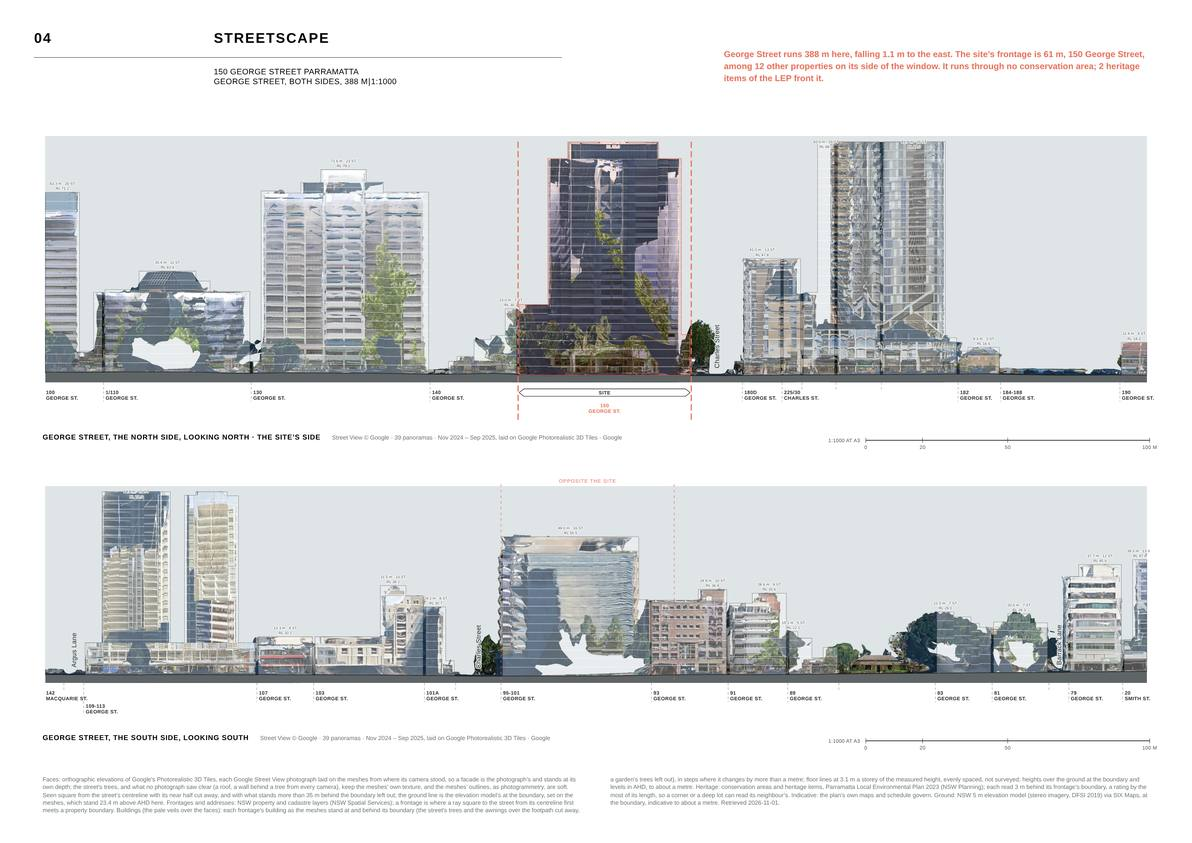
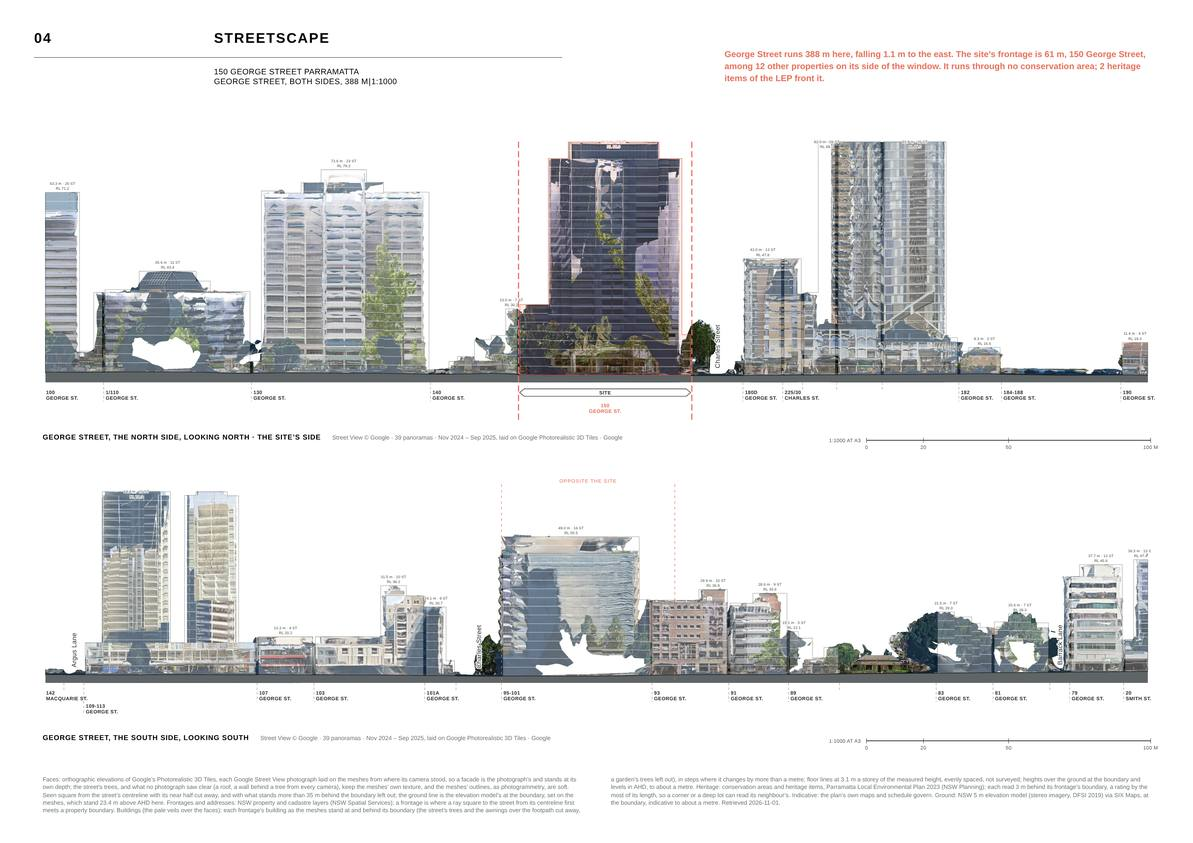
Streetscape on a white sky (#120)
The streetscape's sky is white, the page's own paper: the 3D-tiles pictures are drawn on it and the bands take it, on the site report's page and the standalone sheet alike. The web's thumbnail of the page and the welcome animation's streetscape are redrawn on it.

Claude-Session: https://claude.ai/code/session_01VNRPandtSXPyj36pWVGDut

diff --git a/src/render/aiTiles.ts b/src/render/aiTiles.ts
@@ -39,9 +39,9 @@ export const AI_OVERLAP_M = 8;
 /** The most of a tile's sky an answer may build on: one that fills the sky has redrawn the street, not cleaned it. */
 export const AI_MAX_FILL = 0.25;
 /** What the model is asked, tile by tile. */
-export const AI_PROMPT = 'Make this one crisp, consistent photograph of the same street elevation. Keep the photographed facades exactly as they are, with their real windows, doors, signs and shopfronts; only clean up the seams, the colour differences between patches and the blurry, melted 3D-scan parts (roofs, trees, upper floors) into sharp realistic surfaces and natural leafy street trees. Keep the exact framing and scale: every building, roofline, window, tree and the ground line stays exactly where and as large as it is. There is only one row of buildings, standing on the single ground line along the bottom: never stack a second row or a copy of the street above it. The plain pale grey areas are open sky: leave them empty and pale grey. Do not zoom, crop, stretch, repeat, add or remove anything; keep the flat straight-on view.';
+export const AI_PROMPT = 'Make this one crisp, consistent photograph of the same street elevation. Keep the photographed facades exactly as they are, with their real windows, doors, signs and shopfronts; only clean up the seams, the colour differences between patches and the blurry, melted 3D-scan parts (roofs, trees, upper floors) into sharp realistic surfaces and natural leafy street trees. Keep the exact framing and scale: every building, roofline, window, tree and the ground line stays exactly where and as large as it is. There is only one row of buildings, standing on the single ground line along the bottom: never stack a second row or a copy of the street above it. The plain white areas are open sky: leave them empty and white. Do not zoom, crop, stretch, repeat, add or remove anything; keep the flat straight-on view.';
 /** What the model is asked of faces drawn from the meshes alone, which have no photographs to keep. */
-export const AI_PROMPT_MESH = 'Make this a crisp, realistic photograph of the same street elevation. It is a blurry 3D-scan render: redraw its melted, smeared surfaces as sharp, realistic facades, windows, doors, shopfronts, roofs and natural leafy street trees, following the colours, materials and the window and door positions you can see. Keep the exact framing and scale: every building outline, roofline, tree and the ground line stays exactly where and as large as it is. Draw everything exactly once, where the render has it: there is one row of buildings and trees standing on the single ground line, and nothing is ever repeated, stacked or mirrored above it - no second row of roofs, trees or facades higher in the picture. Where the render shows only tree canopy, draw only trees: where there is plain pale grey under or between the trees, leave it open, with no buildings added there. Every plain pale grey area, above the skyline, beside, between or below the buildings and trees, is empty background: keep it flat, empty pale grey, exactly as it is. Do not zoom, crop, stretch, repeat, add or remove anything; keep the flat straight-on view.';
+export const AI_PROMPT_MESH = 'Make this a crisp, realistic photograph of the same street elevation. It is a blurry 3D-scan render: redraw its melted, smeared surfaces as sharp, realistic facades, windows, doors, shopfronts, roofs and natural leafy street trees, following the colours, materials and the window and door positions you can see. Keep the exact framing and scale: every building outline, roofline, tree and the ground line stays exactly where and as large as it is. Draw everything exactly once, where the render has it: there is one row of buildings and trees standing on the single ground line, and nothing is ever repeated, stacked or mirrored above it - no second row of roofs, trees or facades higher in the picture. Where the render shows only tree canopy, draw only trees: where there is plain white under or between the trees, leave it open, with no buildings added there. Every plain white area, above the skyline, beside, between or below the buildings and trees, is empty background: keep it flat, empty white, exactly as it is. Do not zoom, crop, stretch, repeat, add or remove anything; keep the flat straight-on view.';
 /** The ground band under the street and the room over its roofs that a tile keeps, metres. */
 const BELOW_M = 1.5, ABOVE_M = 1.5;
 /** The least a tile stands over its highest ground, metres: a run of low walls and gaps still gets a frame a model can read. */

diff --git a/src/render/elevation3d.ts b/src/render/elevation3d.ts
@@ -78,8 +78,8 @@ export interface Elevation {
   draped: number; photoShare: number;
 }
 
-/** The elevations' sky, which the sheet's bands share. */
-export const SCAPE_SKY = '#dfe4e6';
+/** The elevations' sky, which the sheet's bands share: white, the page's own paper. */
+export const SCAPE_SKY = '#ffffff';
 const BELOW_M = 4, ABOVE_M = 70;
 /** What stands this near a frame's camera hides nothing in it: see the depth maps. */
 const NEAR_IGNORE_M = 4;

diff --git a/README.md b/README.md
@@ -1841,7 +1841,7 @@ in front of the boundary, and the meshes' green nearer it) keep the meshes'
 texture, one material for every tree, and so does what no frame saw clear: a
 roof, or the upper floors behind a canopy from every camera. At Riley Street
 the photographs hold about two fifths of each face, the rest trees and roofs.
-The picture is 24 pixels a metre (300 dpi at 1:500), on a pale sky, over a
+The picture is 24 pixels a metre (300 dpi at 1:500), on a white sky (the page's own paper), over a
 band of ground, and runs as high as the face's tallest buildings: nothing
 leans, the facades are the photographs, each at its own depth, and the trees
 stand where they stand.
